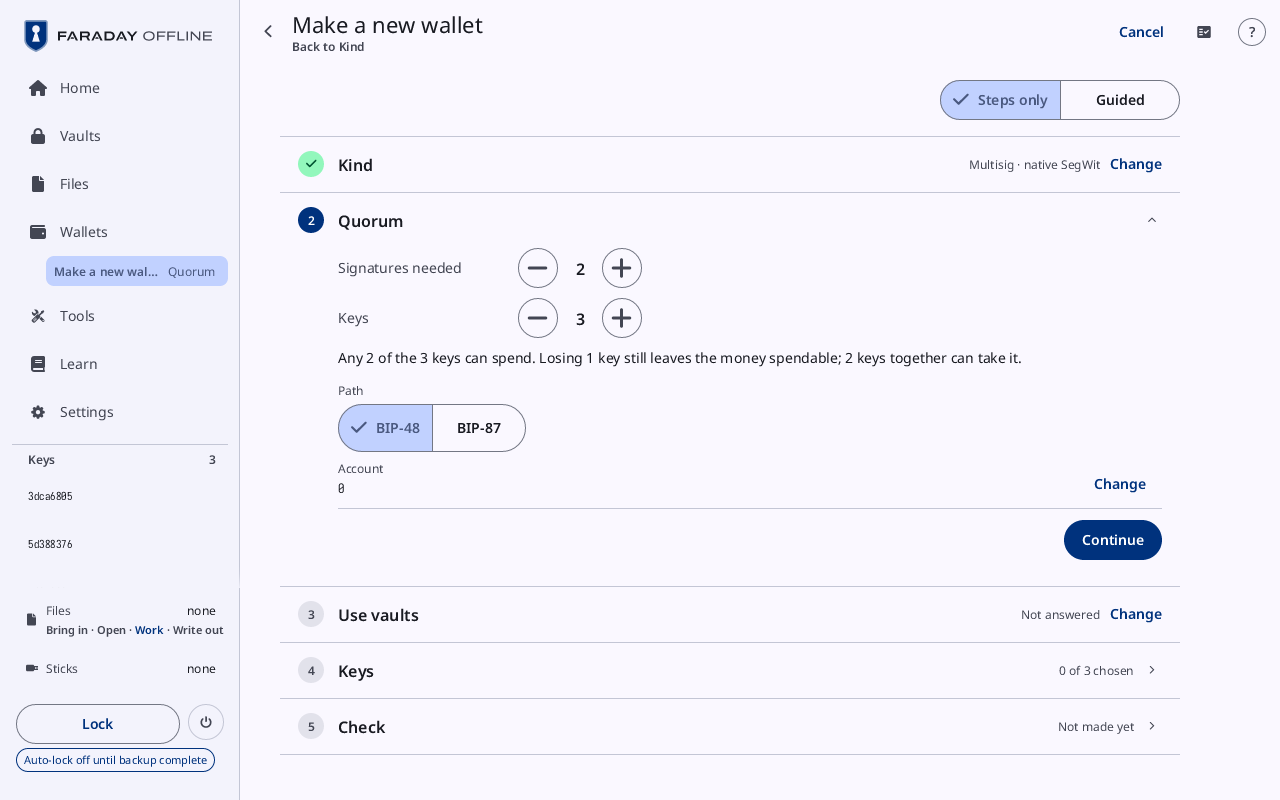
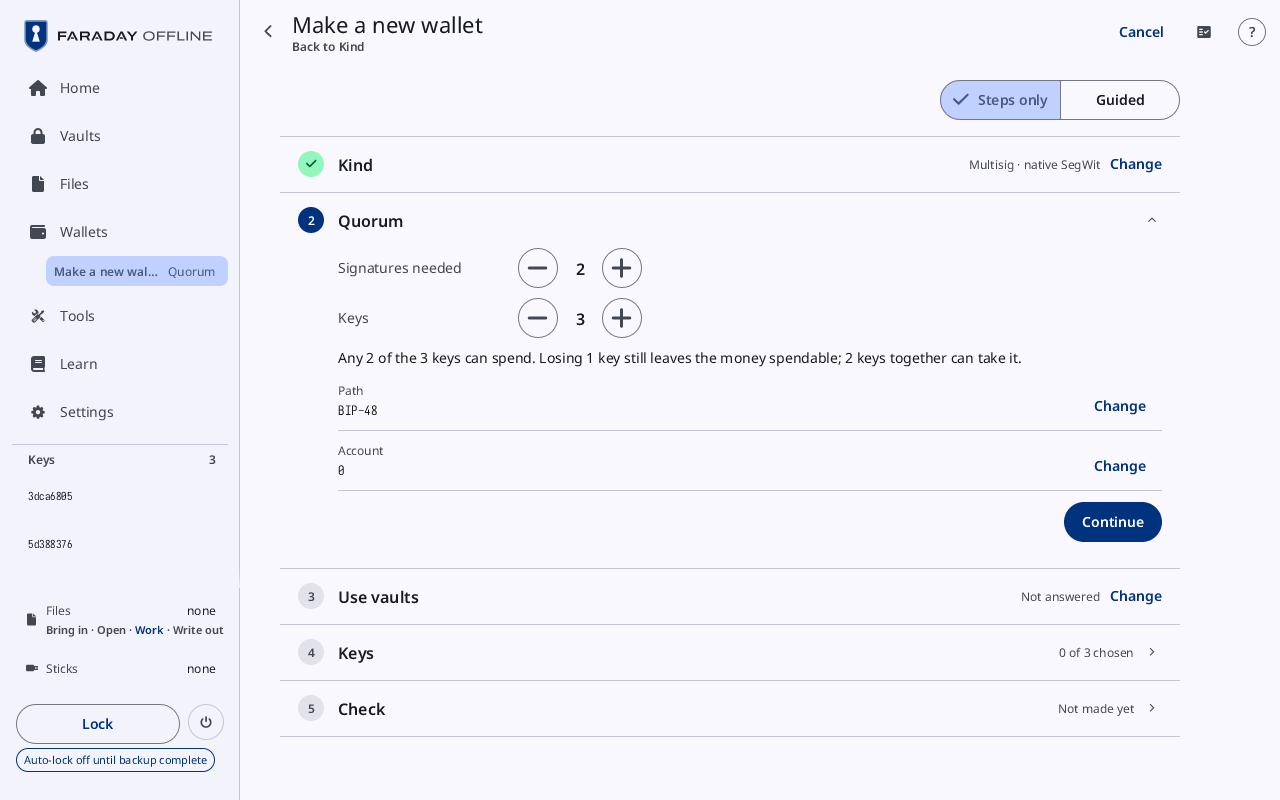
Create's multisig Path row shows the path as its value, BIP-48 (m/45' for legacy multisig), with a small Change, as the Account row does; the two paths as a segmented choice, BIP-87 among them, appear only once Change is pressed, and the made wallet's row shows its path with no Change. The guide's Q
Material: https://m3.material.io/components/segmented-buttons/guidelines
Reviewed: repo.tests-kept
Reviewed: guide.pictures
Reviewed: strings.plain
Reviewed: strings.medium
Reviewed: strings.no-explanation
Reviewed: design.left-out
Reviewed: crypto.at-source
Reviewed: crypto.kept-values
Reviewed: crypto.costs-said
Reviewed: keys.secret-files
Reviewed: keys.child-vault-only
Reviewed: speed.late-flow-timed
Reviewed: speed.shown-secret-held
Reviewed: structure.areas-private
Reviewed: repo.tests-user-facing
Reviewed: tree.image-metadata
Claude-Session: https://claude.ai/code/session_01Nu65eLQKghVW8NjzvBjCTb

diff --git a/faraday/faraday-core/tests/all/create_wallet.rs b/faraday/faraday-core/tests/all/create_wallet.rs
@@ -998,7 +998,10 @@ fn made_multisig_at(kind: NewKind, bip87: bool) -> (Faraday, usize) {
     app.press(Action::CNext(cstep::KIND));
     let _ = app.frame();
     if bip87 {
-        assert!(app.offers(Action::CMultiPath(true)), "Quorum offers BIP-87");
+        assert!(app.offers(Action::CMultiPathChange), "Quorum offers Change");
+        app.press(Action::CMultiPathChange);
+        let _ = app.frame();
+        assert!(app.offers(Action::CMultiPath(true)), "Change offers BIP-87");
         app.press(Action::CMultiPath(true));
     }
     app.press(Action::CNext(cstep::QUORUM));
@@ -1060,10 +1063,16 @@ fn the_bip_87_choice_is_offered_on_quorum_for_every_multisig_and_the_account_fol
         app.press(Action::CNext(cstep::KIND));
         let _ = app.frame();
         assert!(
-            app.offers(Action::CMultiPath(false)) && app.offers(Action::CMultiPath(true)),
-            "{kind:?}: both paths are offered"
+            app.offers(Action::CMultiPathChange) && !app.offers(Action::CMultiPath(true)),
+            "{kind:?}: the path shows with Change, BIP-87 not yet offered"
         );
         assert!(!app.create().expect("create").bip87, "the first is chosen");
+        app.press(Action::CMultiPathChange);
+        let _ = app.frame();
+        assert!(
+            app.offers(Action::CMultiPath(false)) && app.offers(Action::CMultiPath(true)),
+            "{kind:?}: Change offers both paths"
+        );
         app.press(Action::CMultiPath(true));
         let _ = app.frame();
         assert!(
@@ -1071,6 +1080,29 @@ fn the_bip_87_choice_is_offered_on_quorum_for_every_multisig_and_the_account_fol
             "{kind:?}: an account to choose at m/87'"
         );
     }
+}
+
+#[test]
+fn the_path_row_reads_bip_48_with_change_and_the_made_wallet_has_no_change() {
+    let mut app = testkit::started();
+    app.press(Action::CreateWallet);
+    crate::common::ckind(&mut app, kind_index(NewKind::Multi));
+    app.press(Action::CNext(cstep::KIND));
+    let _ = app.frame();
+    let texts = app.drawn_texts();
+    assert!(texts.iter().any(|t| t == "BIP-48"), "{texts:?}");
+    assert!(!texts.iter().any(|t| t == "BIP-87"), "{texts:?}");
+    assert!(app.offers(Action::CMultiPathChange));
+    app.press(Action::CMultiPathChange);
+    let _ = app.frame();
+    assert!(app.offers(Action::CMultiPath(true)));
+
+    let (mut app, _) = made_multisig_at(NewKind::Multi, true);
+    app.press(Action::CStep(cstep::QUORUM));
+    let _ = app.frame();
+    let texts = app.drawn_texts();
+    assert!(texts.iter().any(|t| t == "BIP-87"), "{texts:?}");
+    assert!(!app.offers(Action::CMultiPathChange), "no Change when made");
 }
 
 #[test]
@@ -1153,6 +1185,7 @@ fn a_wallet_made_from_a_bip_87_wallet_opens_with_bip_87_and_gets_the_cosigners_k
     app.press(Action::CAccount(-1));
     assert_eq!(app.create().unwrap().slots[pos], Source::Cosigner(xpub));
     // Back to the kind's own path: that key is not at it.
+    app.press(Action::CMultiPathChange);
     app.press(Action::CMultiPath(false));
     assert_eq!(app.create().unwrap().slots[pos], Source::Later);
 }
@@ -1169,6 +1202,7 @@ fn from_a_bip_48_wallet_choosing_bip_87_leaves_the_cosigners_slots_to_the_cosign
         app.create().unwrap().slots[pos],
         Source::Cosigner(xpub.clone())
     );
+    app.press(Action::CMultiPathChange);
     app.press(Action::CMultiPath(true));
     assert_eq!(app.create().unwrap().slots[pos], Source::Later);
     app.press(Action::CVaults(false));
@@ -1176,6 +1210,7 @@ fn from_a_bip_48_wallet_choosing_bip_87_leaves_the_cosigners_slots_to_the_cosign
     let line = format!("Needs Key {}'s xpub at BIP-87, account 0", pos + 1);
     let texts = app.drawn_texts();
     assert!(texts.contains(&line), "{line}: {texts:?}");
+    app.press(Action::CMultiPathChange);
     app.press(Action::CMultiPath(false));
     assert_eq!(app.create().unwrap().slots[pos], Source::Cosigner(xpub));
 }

diff --git a/faraday/faraday-core/src/screens/create.rs b/faraday/faraday-core/src/screens/create.rs
@@ -733,42 +733,41 @@ fn path_row(ui: &mut Ui, x: f32, y: f32, w: f32, path: &str, change: bool) -> f3
     change_row(ui, x, y, w, EN.create_path, path, change)
 }
 
-/// The path choice of a multisig kind: its own path (BIP-48's, or
-/// `m/45'`) or BIP-87's, a segmented button, the first chosen at entry.
-/// Fixed once the wallet is made. Returns its height.
+/// The path row of a multisig kind: its own path (BIP-48's, or `m/45'`)
+/// or BIP-87's, the first chosen at entry, as a value with **Change**;
+/// once Change is pressed, the two as a segmented button. The made
+/// wallet's row has no Change. Returns its height.
 fn path_choice(ui: &mut Ui, x: f32, y: f32, w: f32, c: &crate::CreateState) -> f32 {
     let own = if c.kind == crate::create::NewKind::MultiLegacy {
         EN.create_path_bip45
     } else {
         EN.create_path_bip48
     };
-    ui.text_as(x, y, BODY_S, Role::OnSurfaceVariant, EN.create_path);
     let options = [
         (own, Action::CMultiPath(false)),
         (EN.create_path_bip87, Action::CMultiPath(true)),
     ];
-    let chosen = Some(usize::from(c.at_bip87()));
-    let h = if c.built.is_some() {
-        // The made wallet's choice is shown, not offered.
-        let text = options[usize::from(c.at_bip87())].0;
-        return tokens::CREATE_FIELD_LABEL
-            + ui.wrap_as(
-                (x, y + tokens::CREATE_FIELD_LABEL, w),
-                BODY_M,
-                Role::OnSurface,
-                text,
-            )
-            .max(tokens::CREATE_VALUE_MIN)
-            + tokens::GAP;
-    } else {
-        ui.choices(
+    let locked = c.built.is_some();
+    if c.path_open && !locked {
+        ui.text_as(x, y, BODY_S, Role::OnSurfaceVariant, EN.create_path);
+        let h = ui.choices(
             (x, y + tokens::CREATE_FIELD_LABEL + 2.0, w, tokens::TOUCH),
             LABEL_L.size,
             &options,
-            chosen,
-        )
-    };
-    tokens::CREATE_FIELD_LABEL + 2.0 + h + tokens::GAP
+            Some(usize::from(c.at_bip87())),
+        );
+        return tokens::CREATE_FIELD_LABEL + 2.0 + h + tokens::GAP;
+    }
+    let change = (!locked).then_some((EN.create_account_change, Action::CMultiPathChange));
+    change_row(
+        ui,
+        x,
+        y,
+        w,
+        EN.create_path,
+        options[usize::from(c.at_bip87())].0,
+        change,
+    )
 }
 
 /// The Account row (F98), for a kind whose path has an account: its

diff --git a/faraday/faraday-core/src/create.rs b/faraday/faraday-core/src/create.rs
@@ -989,6 +989,10 @@ pub struct CreateState {
     /// The Account row's − n + stepper is open, by its **Change** or by
     /// Check's Path **Change** (F98); closed, the row shows the account.
     pub account_open: bool,
+    /// The multisig path row's two-segment choice is open, by its
+    /// **Change**; closed, the row shows the path chosen. False whenever
+    /// the kind changes.
+    pub path_open: bool,
     /// A multisig kind's keys are taken at BIP-87's `m/87'/coin'/account'`,
     /// not at the kind's own path (BIP-48's, or `m/45'`): the choice on the
     /// card that carries the Account row. False at entry and whenever the
@@ -1110,6 +1114,7 @@ impl CreateArea {
                     c.kind = create::NewKind::ALL[i as usize % create::NewKind::ALL.len()];
                     c.kind_unchosen = false;
                     c.bip87 = false;
+                    c.path_open = false;
                     if c.kind.multi() {
                         c.n = c.n.clamp(2, c.kind.max_keys());
                         c.m = if c.kind.all_sign() { c.n } else { c.m.min(c.n) };
@@ -1402,6 +1407,7 @@ impl Faraday {
             Action::CSlotVault(k, v, r) => self.create_slot_vault(k, v, r),
             Action::CAccount(d) => self.create_account_step(d),
             Action::CMultiPath(bip87) => self.create_multi_path(bip87),
+            Action::CMultiPathChange => self.create_multi_path_change(),
             Action::CPathChange => self.create_take_back(),
             Action::NewWalletFrom(i) => self.create_from_wallet(i),
             Action::CSlotFile(k, i) => {

diff --git a/faraday/faraday-core/src/create_from.rs b/faraday/faraday-core/src/create_from.rs
@@ -325,6 +325,17 @@ impl Faraday {
         self.create_from_refresh();
     }
 
+    /// The multisig path row's **Change**: opens its choice.
+    pub(crate) fn create_multi_path_change(&mut self) {
+        if let Some(c) = self.create.state_mut()
+            && c.built.is_none()
+            && c.kind.has_bip87()
+        {
+            c.path_open = true;
+        }
+        self.create_from_refresh();
+    }
+
     /// The path choice beside the Account row: BIP-87's path (`bip87`) or
     /// the kind's own. A kind that is not a multisig of a descriptor has no
     /// choice. Of the keys already in slots, a cosigner's or a file's at

diff --git a/faraday/shells/snapshot/src/tours/create_from.rs b/faraday/shells/snapshot/src/tours/create_from.rs
@@ -115,8 +115,10 @@ pub(crate) fn create_from_tour(c: &Compute, t: &mut Tour) -> Result<(), String> 
     t.press(Action::CStep(cstep::QUORUM));
     t.shot("create-from-quorum")?;
     down(t, Action::CNext(cstep::QUORUM), "create-from-quorum-down")?;
+    t.press(Action::CMultiPathChange);
     t.press(Action::CMultiPath(true));
     t.shot("create-from-quorum-bip87")?;
+    t.press(Action::CMultiPathChange);
     t.press(Action::CMultiPath(false));
     t.press(Action::CNext(cstep::QUORUM));
     t.press(Action::CVaults(false));

diff --git a/faraday/faraday-strings/src/en.rs b/faraday/faraday-strings/src/en.rs
@@ -7008,7 +7008,8 @@ strings! {
     /// Label in `account_row`: the Account row and its stepper, at the
     /// foot of Quorum or the head of Keys (F98).
     create_account: "Account",
-    /// Button in `account_row`: opens the Account row's stepper (F98).
+    /// Button in `account_row` and `path_choice`: opens the Account row's
+    /// stepper (F98), or a multisig path row's two paths.
     create_account_change: "Change",
     /// Segment in `path_choice`: a multisig's own path, BIP-48's, the
     /// default.

diff --git a/faraday/faraday-core/src/lib.rs b/faraday/faraday-core/src/lib.rs
@@ -2746,7 +2746,9 @@ impl Faraday {
             | Action::MOut
             | Action::MQr
             | Action::CheckMessage(..)) => self.message_act(a, &c),
-            a @ (Action::CMultiPath(..) | Action::CPathChange) => self.create_act(a, &c),
+            a @ (Action::CMultiPath(..) | Action::CMultiPathChange | Action::CPathChange) => {
+                self.create_act(a, &c)
+            }
             a @ (Action::CreateWallet
             | Action::CreateOver
             | Action::CStep(..)

diff --git a/faraday/faraday-core/src/action.rs b/faraday/faraday-core/src/action.rs
@@ -530,6 +530,9 @@ pub enum Action {
     /// The path choice beside the Account row of a multisig kind: true
     /// BIP-87's `m/87'/coin'/account'`, false the kind's own path.
     CMultiPath(bool),
+    /// The path row's **Change** of a multisig kind: opens the choice
+    /// between the kind's own path and BIP-87's.
+    CMultiPathChange,
     /// Check's Path row **Change**: the made wallet taken back, the
     /// Account row's card open on its stepper (F98).
     CPathChange,

diff --git a/core/faraday-draw/src/tokens.rs b/core/faraday-draw/src/tokens.rs
@@ -589,8 +589,6 @@ pub const SILENT_LINE_GAP: f32 = 14.0;
 /// Height in dp of the label line above a Create card's value or choice
 /// row (Path, Account).
 pub const CREATE_FIELD_LABEL: f32 = 20.0;
-/// Least height in dp of a Create card's wrapped value line.
-pub const CREATE_VALUE_MIN: f32 = 18.0;
 /// Height in dp of a row of the Layout screen's vault chips and the least
 /// height of a board's row of boxes; the board's chips are one touch
 /// target high (`tokens::touch`).

diff --git a/faraday/faraday-core/tests/all/codes.rs b/faraday/faraday-core/tests/all/codes.rs
@@ -141,6 +141,7 @@ fn making_at(bip87: bool) -> (Faraday, String) {
     app.press(Action::CNext(0));
     if bip87 {
         let _ = app.frame();
+        app.press(Action::CMultiPathChange);
         app.press(Action::CMultiPath(true));
     }
     app.press(Action::CNext(1));

diff --git a/docs/DESIGN.md b/docs/DESIGN.md
@@ -447,7 +447,7 @@ whole where it is read.
 | Kind | Rendering | Behaviour |
 |---|---|---|
 | Path | A mono string, `m/84h/0h/0h/0/0`. As a row: "Path" above, the paths below, wrapped, with **Change** at the right while the wallet can be taken back (`path_row`, Create's Check). | **Change** goes back to the Account row (F98). |
-| Path choice | Create's path for a multisig that is a descriptor, above the Account row on Quorum: a Segmented button (§4.2, `Ui::choices`) of two, **BIP-48** (**m/45'** for legacy multisig) and **BIP-87**, the first chosen at entry and whenever the kind changes (`path_choice`). Checked against Material 3's Segmented buttons. The made wallet shows the choice made, as text. | A press chooses it; the Account row follows (a legacy multisig has one only at BIP-87). |
+| Path choice | Create's path for a multisig that is a descriptor, above the Account row on Quorum: the path as a value (**BIP-48**, or **m/45'** for legacy multisig, the first chosen at entry and whenever the kind changes) with a small **Change**, as the Account row has it; once Change is pressed, a Segmented button (§4.2, `Ui::choices`) of two, the kind's own path and **BIP-87** (`path_choice`). Checked against Material 3's Segmented buttons. The made wallet shows the choice made, as text with no Change. | **Change** opens the two; a press on one chooses it; the Account row follows (a legacy multisig has one only at BIP-87). |
 | Account | Create's account, as the Path row is drawn: "Account" above, the number below, with **Change** at the right (`account_row`), at the foot of Quorum or the head of Keys (F98). | **Change** puts the Stepper (§4.2) in its place. |
 | Path field | Explore's path: a field typed on the path keyboard (`KeyboardKind::Path`), with **Index -1** and **Index +1** beside it. | The values under it follow the path as it is typed. |
 | Script type | Named in one vocabulary: Native SegWit, Nested SegWit, Taproot, Legacy; on Explore one button each (`explore::screen::script_name`), in a wallet's shape after its kind ("Single key · native SegWit"). | Never "BIP-84" or "p2wpkh" on a working screen. |
@@ -726,7 +726,7 @@ is `docs/WALLETS.md` and the Spend tab `docs/SPEND-FROM-BACKUP.md`.
 | `Backup` | Backing up a wallet: the plan, the board (§4.17), each copy made and checked. | Step flow |
 | `BackupFlow` | The shared backup flow for a key that is not a wallet's: where it will be kept, its sticks and vaults, the lock and the writes (`docs/BACKUP-FLOW.md`); a GPG key restored from its paperkey, with a head card of its public key and line 1 and the lines typed or a paperkey code scanned at step 4 (`docs/GPG-PAPERKEY.md` §4.2); also the setup of a new wallet's vaults, Bring in the sticks and Vaults, with Make a new wallet's Guided switch. | Step flow |
 | `Backups` | Every wallet known and where its backup is, a card each; on the small panel one wallet a page with **Previous · Next**. | Page |
-| `Create` | Making a new wallet: Kind, for a single key its Backup card (Words or Shares), for a multisig the quorum (a multisig that is a descriptor with its path choice, BIP-48 or BIP-87, and the account), whether vaults are part of the backup, the keys, Check with **Back up wallet** at its foot (no Back up card). | Step flow |
+| `Create` | Making a new wallet: Kind, for a single key its Backup card (Words or Shares), for a multisig the quorum (a multisig that is a descriptor with its path, BIP-48 by default or BIP-87 after Change, and the account), whether vaults are part of the backup, the keys, Check with **Back up wallet** at its foot (no Back up card). | Step flow |
 | `Restore` | Restoring a wallet from its description and its seeds. | Step flow |
 | `KeyGen` | Making a new key: Start (no choice ticked until one is pressed; SLIP-39 shares are chosen here, under Other forms), the length (BIP-39 words chosen, no count until one is pressed: 12 words and 24 words, the rest under **Other**, a menu of 15, 18 and 21; a count pressed is taken and Randomness opens, with no Continue), the source of randomness, its entries (§4.3) or, for This device, the Generator card with Add randomness's sources on it (Pointer and keys among them on the desktop app), Camera first and none chosen until one is pressed (no pad, key or camera live before that), each pad and its Add once chosen, "Randomness added to the pool" once any is added, and **Skip**, a text button at the start of the foot row while nothing is added, **Make the words** filled at its end, the passphrase, lock in; or, with Codex32 chosen, Make codex32 shares' cards (`docs/CODEX32.md` §6): Scheme, Identifier, Entropy, the entry with the worksheets filling live (§4.10 Worksheet), Worksheets, Strings and the Result **Strings made**. | Step flow |
 | `Message` | Signing a message with a single-key wallet's key. | Step flow |

diff --git a/docs/guide/walk/make-a-wallet.md b/docs/guide/walk/make-a-wallet.md
@@ -93,8 +93,8 @@ Press **Home**, then [**Make a new wallet**](../screens/make-a-wallet.md).
 
 | Kind | Quorum |
 |---|---|
-| ![Kind opened again with Multisig · native SegWit chosen, that row outlined](../pictures/5-2-kind.png) | ![Quorum at 2 of 3, Account 0, Continue outlined](../pictures/5-2-quorum.png) |
-| Kind opens with no row ticked: **Single key · native SegWit** and **Multisig · native SegWit**; **More kinds** lists the others. Press **Multisig · native SegWit** (**3 keys, any 2 sign**): **Quorum** opens. **Change** on Kind, as in the picture, shows it chosen; pressed again, it moves on. | **Signatures needed** 2 and **Keys** 3 (**-** and **+** change them). The line under them says what the quorum means: **Any 2 of the 3 keys can spend. Losing 1 key still leaves the money spendable; 2 keys together can take it.** **Account** 0. Press **Continue**. |
+| ![Kind opened again with Multisig · native SegWit chosen, that row outlined](../pictures/5-2-kind.png) | ![Quorum at 2 of 3, Path BIP-48, Account 0, Continue outlined](../pictures/5-2-quorum.png) |
+| Kind opens with no row ticked: **Single key · native SegWit** and **Multisig · native SegWit**; **More kinds** lists the others. Press **Multisig · native SegWit** (**3 keys, any 2 sign**): **Quorum** opens. **Change** on Kind, as in the picture, shows it chosen; pressed again, it moves on. | **Signatures needed** 2 and **Keys** 3 (**-** and **+** change them). The line under them says what the quorum means: **Any 2 of the 3 keys can spend. Losing 1 key still leaves the money spendable; 2 keys together can take it.** **Path** BIP-48 and **Account** 0, each with **Change**. Press **Continue**. |
 
 On **Use vaults**, press **No**: **Keys** opens.
 
